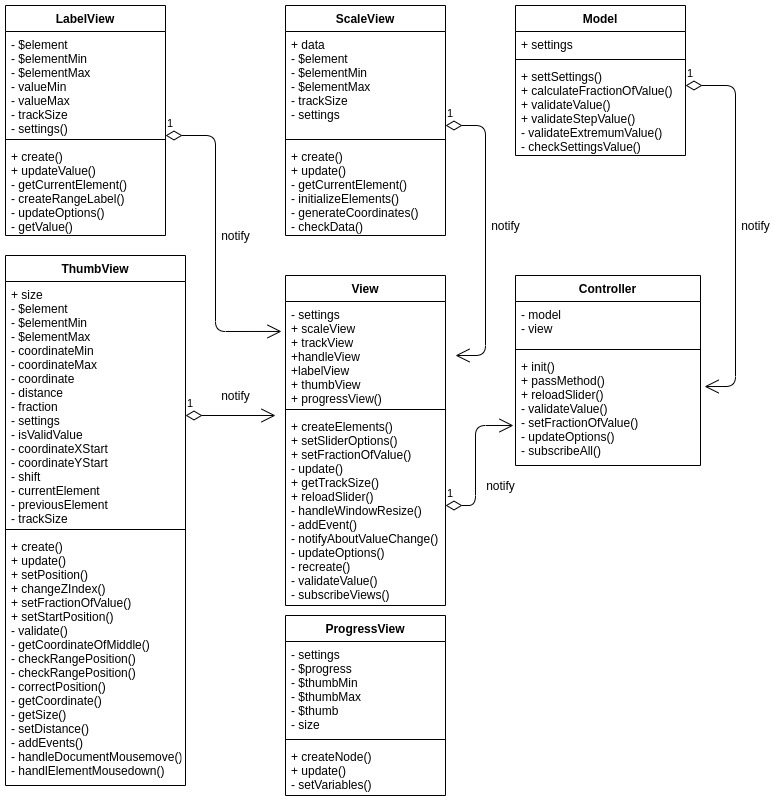
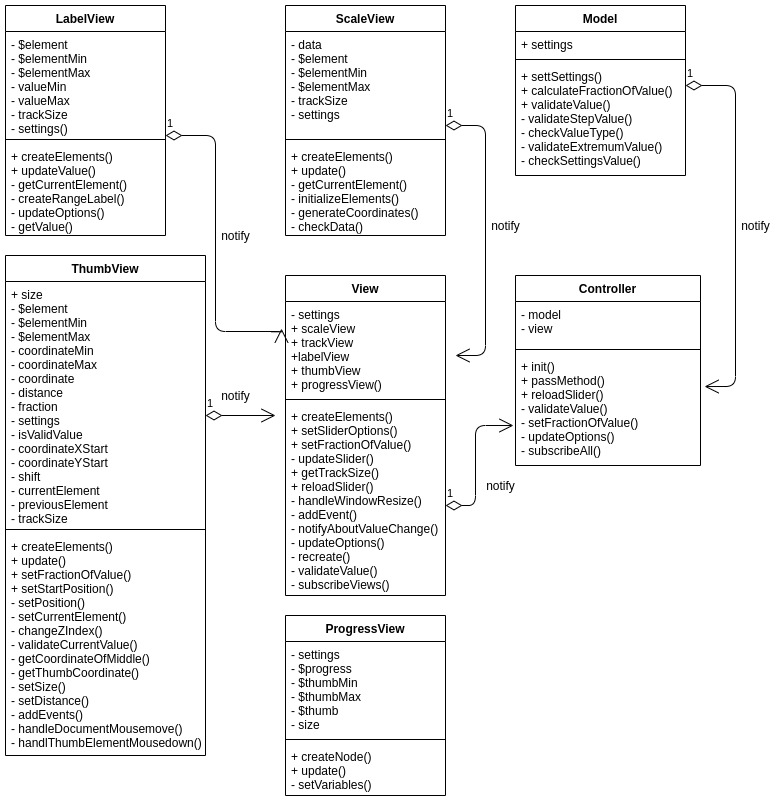
update diagram

diff --git a/src/slider/views/ThumbView/ThumbView.ts b/src/slider/views/ThumbView/ThumbView.ts
@@ -70,7 +70,7 @@ class ThumbView extends Observable {
 
     if (!step) {
       this.setCurrentElement(type);
-      this.setPosition(this.getCoordinate(value || 0));
+      this.setPosition(this.getThumbCoordinate(value || 0));
     }
   }
 
@@ -86,12 +86,12 @@ class ThumbView extends Observable {
 
     const key = isVertical ? 'top' : 'left';
     if (isRange) {
-      this.coordinateMin = this.getCoordinate(valueMin || min);
+      this.coordinateMin = this.getThumbCoordinate(valueMin || min);
       this.$elementMin.css({ [key]: `${this.coordinateMin}px` });
-      this.coordinateMax = this.getCoordinate(valueMax || max);
+      this.coordinateMax = this.getThumbCoordinate(valueMax || max);
       this.$elementMax.css({ [key]: `${this.coordinateMax}px` });
     } else {
-      this.coordinate = this.getCoordinate(value || min);
+      this.coordinate = this.getThumbCoordinate(value || min);
       this.$element.css({ [key]: `${this.coordinate}px` });
     }
   }
@@ -166,7 +166,7 @@ class ThumbView extends Observable {
     return startPosition + (this.trackSize / 2);
   }
 
-  private getCoordinate(value: number): number {
+  private getThumbCoordinate(value: number): number {
     this.notifyAll({ value, type: EventTypes.VALUE_CHANGE });
     return this.fraction * this.trackSize;
   }

diff --git a/src/slider/views/ScaleView/ScaleView.ts b/src/slider/views/ScaleView/ScaleView.ts
@@ -2,7 +2,7 @@ import { ScaleData, SliderElementOptions, ValueAndType } from '../../../types/ty
 import Observable from '../../Observable/Observable';
 
 class ScaleView extends Observable {
-  public data: ScaleData = {
+  private data: ScaleData = {
     value: [], coordinates: [], shortValue: [], shortCoordinates: [],
   };
 
